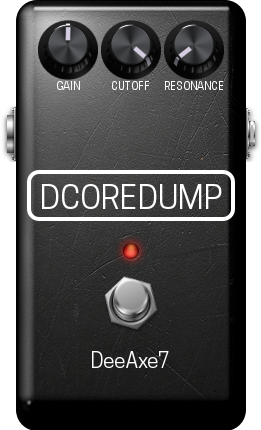
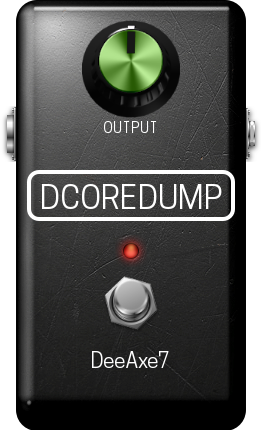
Removed patch.cc and changed modui to 1-knob.

Changed region(s): [[0.1226, 0.0302, 0.8582, 0.3326]]

diff --git a/src/modgui/icon-deeaxe7.html b/src/modgui/icon-deeaxe7.html
@@ -1,4 +1,4 @@
-<div class="mod-pedal mod-pedal-boxy{{{cns}}} mod-three-knobs mod-{{color}} {{color}}">
+<div class="mod-pedal mod-pedal-boxy{{{cns}}} mod-one-knob mod-{{color}} {{color}}">
     <div mod-role="drag-handle" class="mod-drag-handle"></div>
     <div class="mod-plugin-brand"><h1>{{brand}}</h1></div>
     <div class="mod-plugin-name"><h1>{{label}}</h1></div>

diff --git a/src/msfa/synth_unit.cc b/src/msfa/synth_unit.cc
@@ -169,7 +169,7 @@ int SynthUnit::ProcessMidiMessage(const uint8_t *buf, int buf_size) {
       } else if (controller == 3) {
         filter_control_[2] = value * 528416;
       } else */
-		if (controller == 64) {
+      if (controller == 64) {
         sustain_ = value != 0;
         if (!sustain_) {
           for (int note = 0; note < max_active_notes; note++) {
@@ -179,6 +179,10 @@ int SynthUnit::ProcessMidiMessage(const uint8_t *buf, int buf_size) {
             }
           }
         }
+      }
+      if (controller == 01) {
+        // mod wheel
+        ; 
       }
       return 3;
     } return 0;

diff --git a/src/deeaxe7.cpp b/src/deeaxe7.cpp
@@ -250,7 +250,7 @@ void DeeAxe7::run (uint32_t sample_count)
        // If it's midi, send it to the engine
        if (ev->body.type == m_midi_type)
           ring_buffer_.Write ((uint8_t*) LV2_ATOM_BODY (&ev->body), ev->body.size);
-      
+
        // render audio from the last frame until the timestamp of this event
        synth_unit_->GetSamples (num_this_time, outbuf16_);
       
